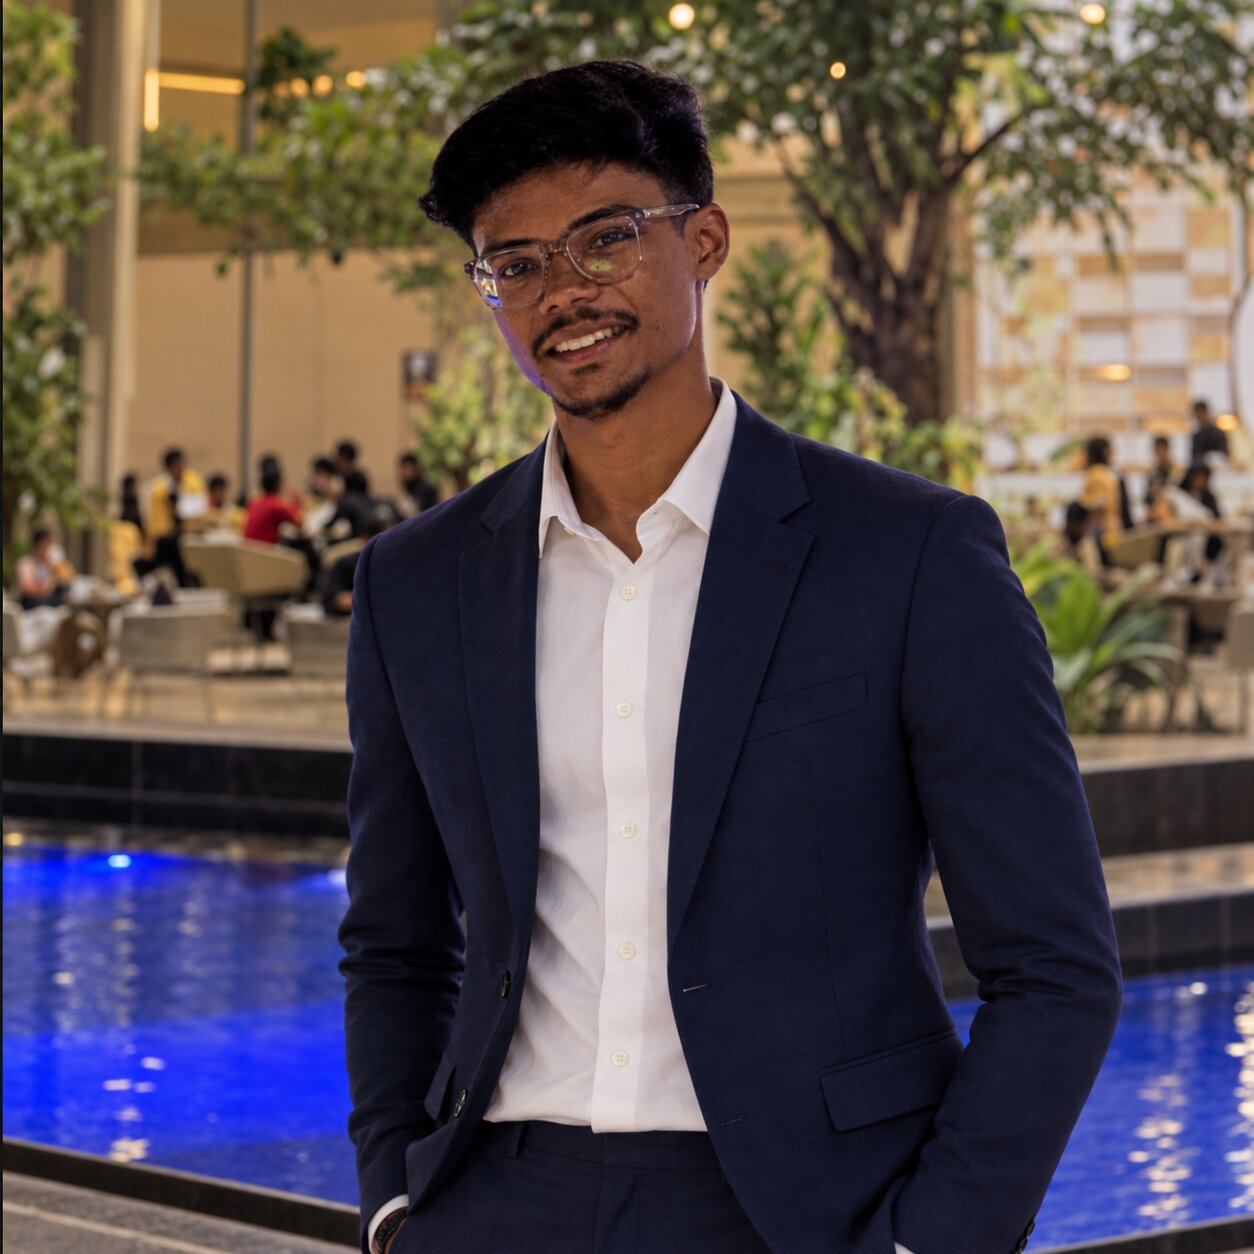
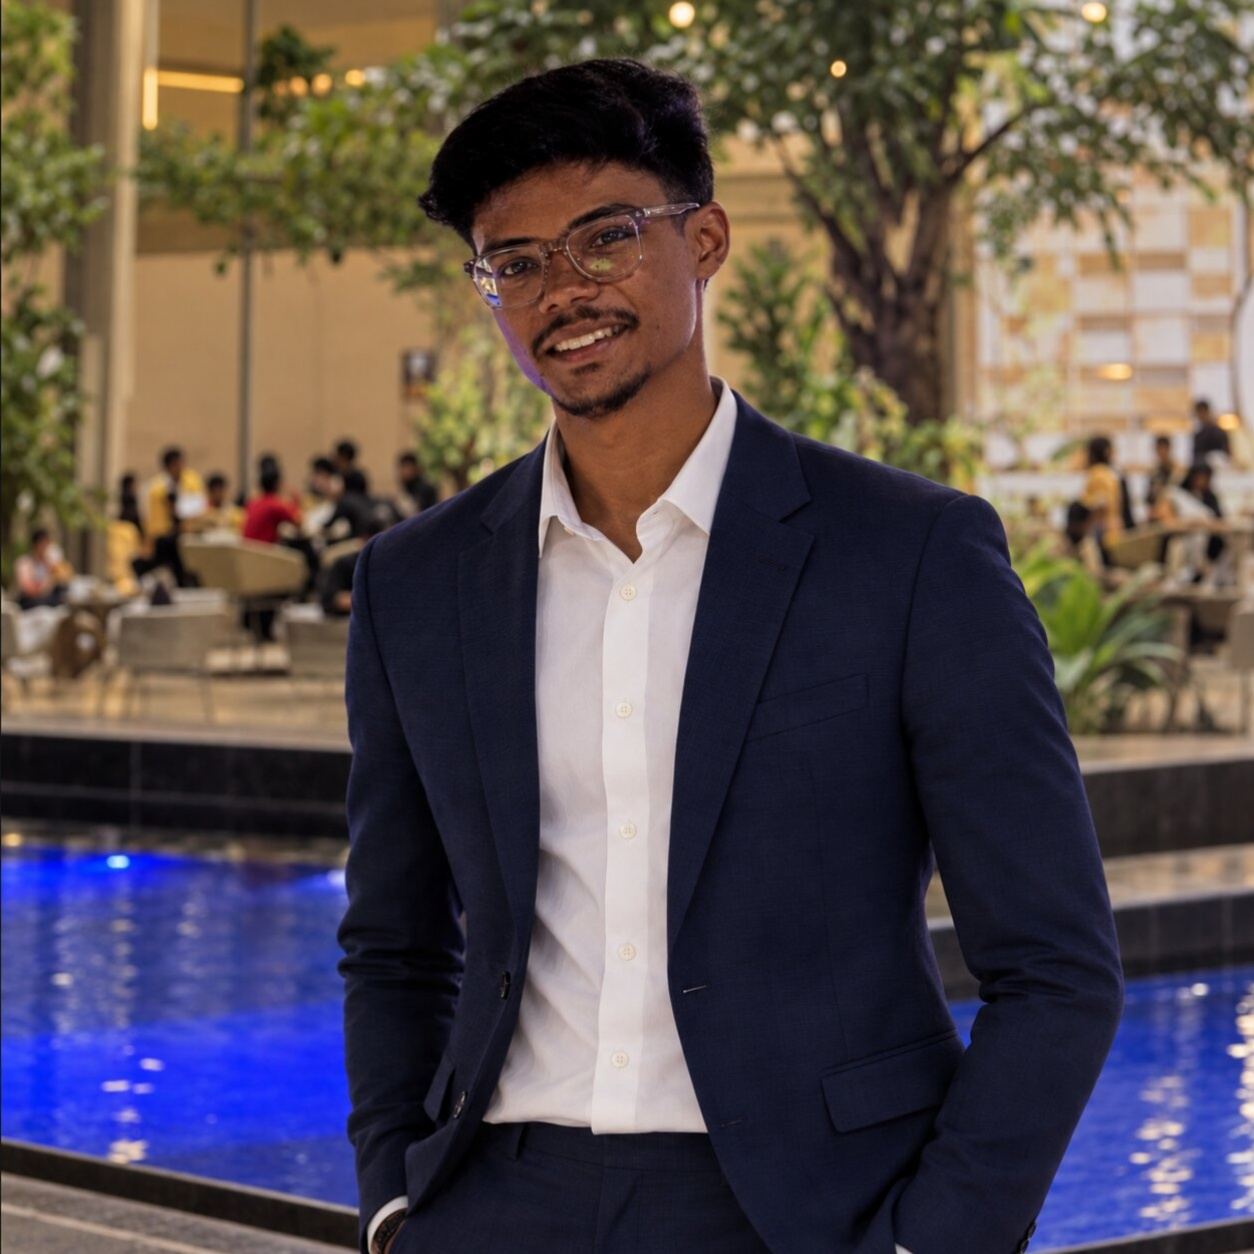
Updated the website with offical chanegs.

diff --git a/components/navigation/Navbar.tsx b/components/navigation/Navbar.tsx
@@ -25,27 +25,45 @@ export function Navbar() {
 
   return (
     <header className="w-full border-b border-[#222226] bg-[#0E0E10]/95 backdrop-blur sticky top-0 z-50">
-      <div className="max-w-7xl mx-auto px-4 sm:px-6 lg:px-8 h-16 flex items-center justify-between">
+      <div className="w-full px-4 sm:px-6 lg:px-8 h-16 flex items-center justify-between relative">
         
-        {/* Brand / Logo */}
-        <Link href="/" className="group flex items-center gap-2.5">
-          <div className="w-10 h-10 relative flex items-center justify-center">
+
+        {/* Brand / Logo + University Affiliation */}
+        <div className="flex items-center gap-4">
+          <Link href="/" className="group flex items-center gap-2.5">
+            <div className="w-9 h-9 relative flex items-center justify-center">
+              <Image
+                unoptimized
+                src="/images/Zigbee_logo.png"
+                alt="Zigbee Logo"
+                width={36}
+                height={36}
+                className="w-full h-full object-contain group-hover:scale-105 transition-transform"
+              />
+            </div>
+            <span className="font-mono font-extrabold text-base tracking-widest text-white">
+              {siteConfig.name}
+            </span>
+          </Link>
+
+          {/* Divider */}
+          <div className="h-5 w-[1px] bg-zinc-800" />
+
+          {/* Jain University Logo (Crisp White in Dark Mode) */}
+          <div className="flex items-center opacity-85 hover:opacity-100 transition-opacity">
             <Image
               unoptimized
-              src="/images/Zigbee_logo.png"
-              alt="Zigbee Logo"
-              width={24}
-              height={24}
-              className="w-full h-full object-contain"
+              src="/images/jain-logo.png"
+              alt="Jain University"
+              width={110}
+              height={30}
+              className="h-9 w-auto object-contain brightness-0 invert"
             />
           </div>
-          <span className="font-mono font-extrabold text-base tracking-widest text-white">
-            {siteConfig.name}
-          </span>
-        </Link>
+        </div>
 
         {/* Desktop Navigation Links */}
-        <nav className="hidden md:flex items-center gap-4 lg:gap-8 font-mono text-xs font-semibold tracking-widest text-zinc-400 uppercase">
+        <nav className="hidden md:flex items-center gap-4 lg:gap-8 font-mono text-xs font-semibold tracking-widest text-zinc-400 uppercase absolute left-1/2 -translate-x-1/2">
           {navItems.map((item) => (
             <Link
               key={item.index}

diff --git a/components/crew/FacultyCard.tsx b/components/crew/FacultyCard.tsx
@@ -3,6 +3,7 @@ import React from "react";
 import Image from "next/image";
 import { User } from "lucide-react";
 import { FacultyAdvisor } from "@/types/crew";
+import { getCrewPhoto } from "@/lib/crew-images";
 
 interface FacultyCardProps {
   advisor: FacultyAdvisor;
@@ -26,6 +27,8 @@ function LinkedinIcon({ className = "w-3.5 h-3.5" }: { className?: string }) {
 }
 
 export function FacultyCard({ advisor, tiltDeg = 0 }: FacultyCardProps) {
+  const privatePhoto = getCrewPhoto(advisor.id);
+
   return (
     <div
       className="relative flex flex-col sm:flex-row items-center sm:items-start gap-4 sm:gap-6 bg-[#F2EFEB] text-zinc-900 p-4 sm:p-5 shadow-[0_15px_30px_rgba(0,0,0,0.85)] border border-black/10 rounded-[2px] select-none transition-transform duration-300 hover:scale-[1.01] hover:z-20 max-w-lg w-full"
@@ -39,7 +42,15 @@ export function FacultyCard({ advisor, tiltDeg = 0 }: FacultyCardProps) {
 
       {/* Faculty Portrait / Silhouette Box */}
       <div className="relative w-28 h-36 sm:w-32 sm:h-40 bg-[#1B1B1E] flex-shrink-0 flex items-center justify-center overflow-hidden border border-black/10">
-        {advisor.photoUrl ? (
+        {privatePhoto ? (
+          <Image
+            src={privatePhoto}
+            alt={advisor.name}
+            fill
+            placeholder="blur"
+            className="object-cover"
+          />
+        ) : advisor.photoUrl ? (
           <Image
             unoptimized
             src={advisor.photoUrl}

diff --git a/lib/crew-images.ts b/lib/crew-images.ts
@@ -30,6 +30,10 @@ import marketing2Pic from "@/asset/crew/marketing-2.png";
 import social1Pic from "@/asset/crew/social-1.png";
 import social2Pic from "@/asset/crew/social-2.jpeg";
 
+// Faculty Advisors
+import faculty1Pic from "@/asset/crew/faculty-1.jpg";
+import faculty2Pic from "@/asset/crew/faculty-2.jpg"; // <-- change to .png if your file is PNG
+
 // ---------------------------------------------------------------------------
 // 2. MAP MEMBER IDs TO THEIR IMPORTED PHOTOS
 // ---------------------------------------------------------------------------
@@ -53,6 +57,9 @@ export const crewPhotos: Record<string, StaticImageData> = {
 
   "social-lead-1": social1Pic,
   "social-lead-2": social2Pic,
+
+  "faculty-advisor-1": faculty1Pic,
+  "faculty-advisor-2": faculty2Pic,
 };
 
 /**
